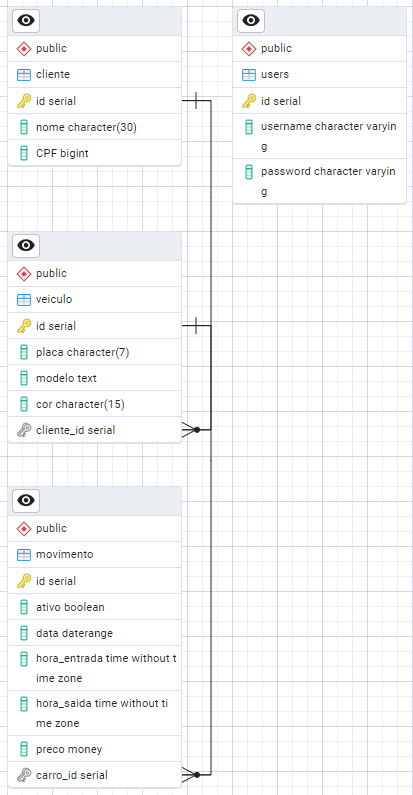
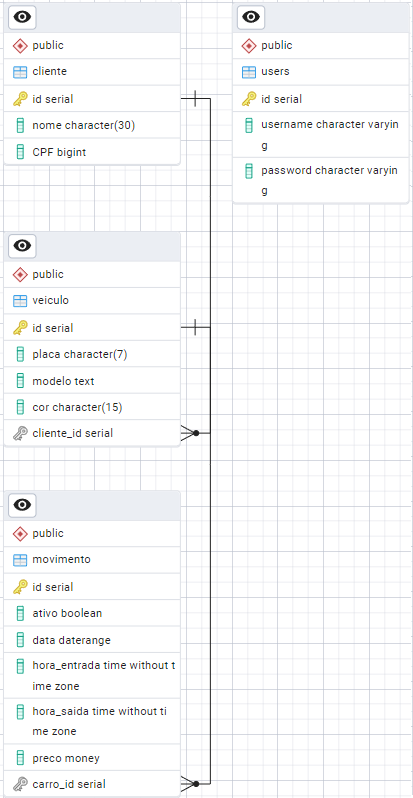
.

diff --git a/src/components/_ui/Header/Header.tsx b/src/components/_ui/Header/Header.tsx
@@ -19,8 +19,8 @@ import { AppUtils } from "@/shared";
 
 const pages = [
   { name: "Home", path: AppUtils.HOME_PATH },
+  { name: "Veículos", path: AppUtils.CARROS_PATH },
   { name: "Relatórios", path: AppUtils.RELATORIOS_PATH },
-  { name: "Estacionamento", path: AppUtils.CARROS_PATH },
   { name: "Gráficos", path: AppUtils.GRAFICOS_PATH },
 ];
 
@@ -51,10 +51,9 @@ function ResponsiveAppBar() {
   };
 
   return (
-    <AppBar position="static">
-      <Container maxWidth="xl">
-        <Toolbar disableGutters>
-          <AdbIcon sx={{ display: { xs: "none", md: "flex" } }} />
+    <AppBar position="static" sx={{ bgcolor: "gray !important" }}>
+      <Container maxWidth="xl" sx={{ backgroundColor: "gray" }}>
+        <Toolbar disableGutters sx={{ backgroundColor: "gray" }}>
           <Typography
             variant="h6"
             noWrap
@@ -72,7 +71,13 @@ function ResponsiveAppBar() {
             GARAGE
           </Typography>
 
-          <Box sx={{ flexGrow: 1, display: { xs: "flex", md: "none" } }}>
+          <Box
+            sx={{
+              backgroundColor: "gray",
+              flexGrow: 1,
+              display: { xs: "flex", md: "none" },
+            }}
+          >
             <IconButton
               size="large"
               aria-label="account of current user"
@@ -97,7 +102,10 @@ function ResponsiveAppBar() {
               }}
               open={Boolean(anchorElNav)}
               onClose={handleCloseNavMenu}
-              sx={{ display: { xs: "block", md: "none" } }}
+              sx={{
+                backgroundColor: "gray",
+                display: { xs: "block", md: "none" },
+              }}
             >
               {pages.map((page) => (
                 <MenuItem key={page.name} onClick={handleCloseNavMenu}>
@@ -113,7 +121,13 @@ function ResponsiveAppBar() {
               ))}
             </Menu>
           </Box>
-          <AdbIcon sx={{ display: { xs: "flex", md: "none" }, mr: 1 }} />
+          <AdbIcon
+            sx={{
+              backgroundColor: "gray",
+              display: { xs: "flex", md: "none" },
+              mr: 1,
+            }}
+          />
           <Typography
             variant="h5"
             noWrap
@@ -121,6 +135,7 @@ function ResponsiveAppBar() {
             href="#app-bar-with-responsive-menu"
             sx={{
               mr: 2,
+              backgroundColor: "gray",
               display: { xs: "flex", md: "none" },
               flexGrow: 1,
               fontFamily: "monospace",
@@ -158,14 +173,22 @@ function ResponsiveAppBar() {
               </Button>
             ))}
           </Box>
-          <Box sx={{ flexGrow: 0 }}>
+          <Box
+            sx={{
+              backgroundColor: "gray",
+              flexGrow: 0,
+            }}
+          >
             <Tooltip title="Open settings">
               <IconButton onClick={handleOpenUserMenu} sx={{ p: 0 }}>
                 <Avatar alt="Remy Sharp" src="/static/images/avatar/2.jpg" />
               </IconButton>
             </Tooltip>
             <Menu
-              sx={{ mt: "45px" }}
+              sx={{
+                backgroundColor: "gray",
+                mt: "45px",
+              }}
               id="menu-appbar"
               anchorEl={anchorElUser}
               anchorOrigin={{

diff --git a/src/app/carro/content.tsx b/src/app/carro/content.tsx
@@ -43,12 +43,12 @@ export default function Content({ cars, colors, models, setCars }: Props) {
   const handleCorChange = async (
     id: number,
     placa: string,
-    newCorId: number,
+    newCor: number,
     id_modelo: number,
   ) => {
     try {
       const response = await fetch(
-        `${ROUTES_CONST.CARRO}?id=${id}&placa=${placa}&id_cor=${newCorId}&id_modelo=${id_modelo}`,
+        `${ROUTES_CONST.CARRO}?id=${id}&placa=${placa}&id_cor=${newCor}&id_modelo=${id_modelo}`,
         {
           method: "PUT",
           headers: {
@@ -65,8 +65,8 @@ export default function Content({ cars, colors, models, setCars }: Props) {
         car.id === id
           ? {
               ...car,
-              id_cor: newCorId,
-              cor_nome: colors.find((cor) => cor.id === newCorId)?.nome || "",
+              id_cor: newCor,
+              cor_nome: colors.find((cor) => cor.id === newCor)?.nome || "",
             }
           : car,
       );

diff --git a/src/components/_ui/Footer/Footer.tsx b/src/components/_ui/Footer/Footer.tsx
@@ -6,7 +6,7 @@ export const Footer = () => {
   return (
     <Box
       sx={{
-        backgroundColor: "#1976d2",
+        backgroundColor: "gray",
         color: "white",
         padding: "16px",
         textAlign: "center",

diff --git a/src/app/globals.css b/src/app/globals.css
@@ -16,3 +16,7 @@ body {
     text-wrap: balance;
   }
 }
+
+AppBar{
+  background-color: gray;
+}
